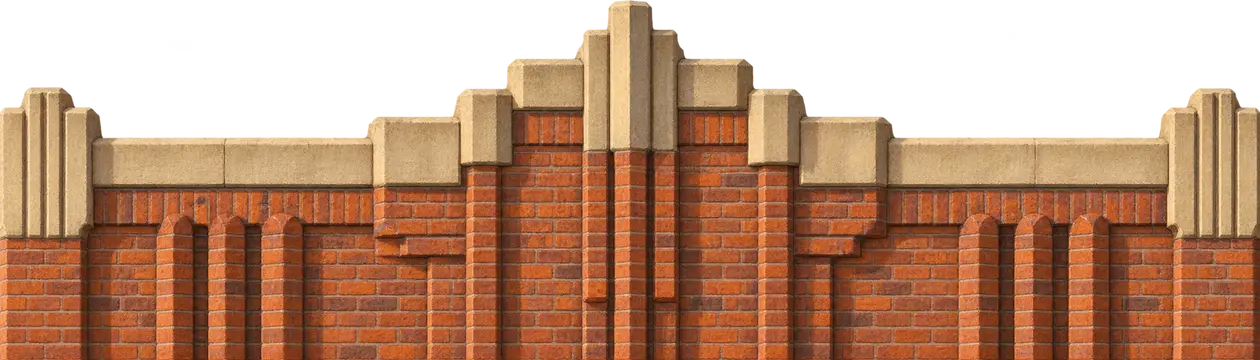
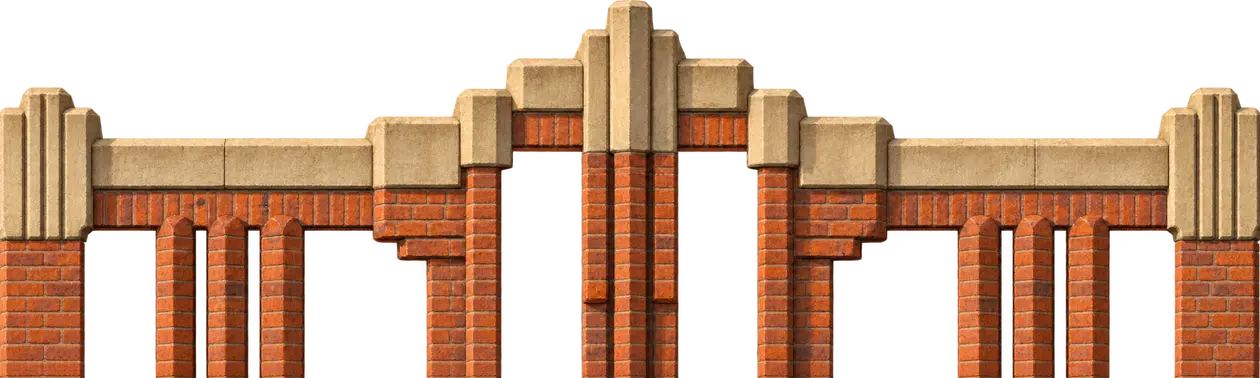
Project the quoins past the brick; use the updated bay parapet
The corner fade is gone. Instead the wings' brick, parapet and base
strip stop 20px short of the corner and the quoins project beyond them
like a corner pilaster; in the quoin column the parapet is still
clipped to its coping line. The updated bay parapet painting is
re-measured (finial from row 72, box top just inside the coping at row
322 so the stone always overlaps the brick) and no longer fades at its
bottom, since it now ends on its own pilasters.

diff --git a/src/styles/globals.css b/src/styles/globals.css
@@ -327,14 +327,8 @@ body {
   background:
     linear-gradient(var(--brick-tint), var(--brick-tint)),
     var(--baytop) center top / 100% 100% no-repeat;
-  -webkit-mask:
-    var(--baytop) center top / 100% 100% no-repeat,
-    linear-gradient(#000 72%, transparent);
-  -webkit-mask-composite: source-in;
-  mask:
-    var(--baytop) center top / 100% 100% no-repeat,
-    linear-gradient(#000 72%, transparent);
-  mask-composite: intersect;
+  -webkit-mask: var(--baytop) center top / 100% 100% no-repeat;
+  mask: var(--baytop) center top / 100% 100% no-repeat;
   pointer-events: none;
 }
 

diff --git a/src/styles/facade-sizes.css b/src/styles/facade-sizes.css
@@ -21,8 +21,8 @@
   --canal-wings-h: 140.0px;
   --canal-wings-aspect: 7.2190;
   --baytop-w: 840.0px;
-  --baytop-h: 240.2px;
-  --baytop-aspect: 3.4976;
+  --baytop-h: 252.2px;
+  --baytop-aspect: 3.3313;
   --window-w: 104.0px;
   --window-h: 289.3px;
   --window-aspect: 0.3594;
@@ -39,6 +39,5 @@
   --skyline-h: 150.0px;
   --skyline-aspect: 4.5336;
   --cap-coping: 56.1px;
-  --cap-coping-h: 11.1px;
-  --baytop-coping: 0.3816;
+  --baytop-coping: 0.3834;
 }
